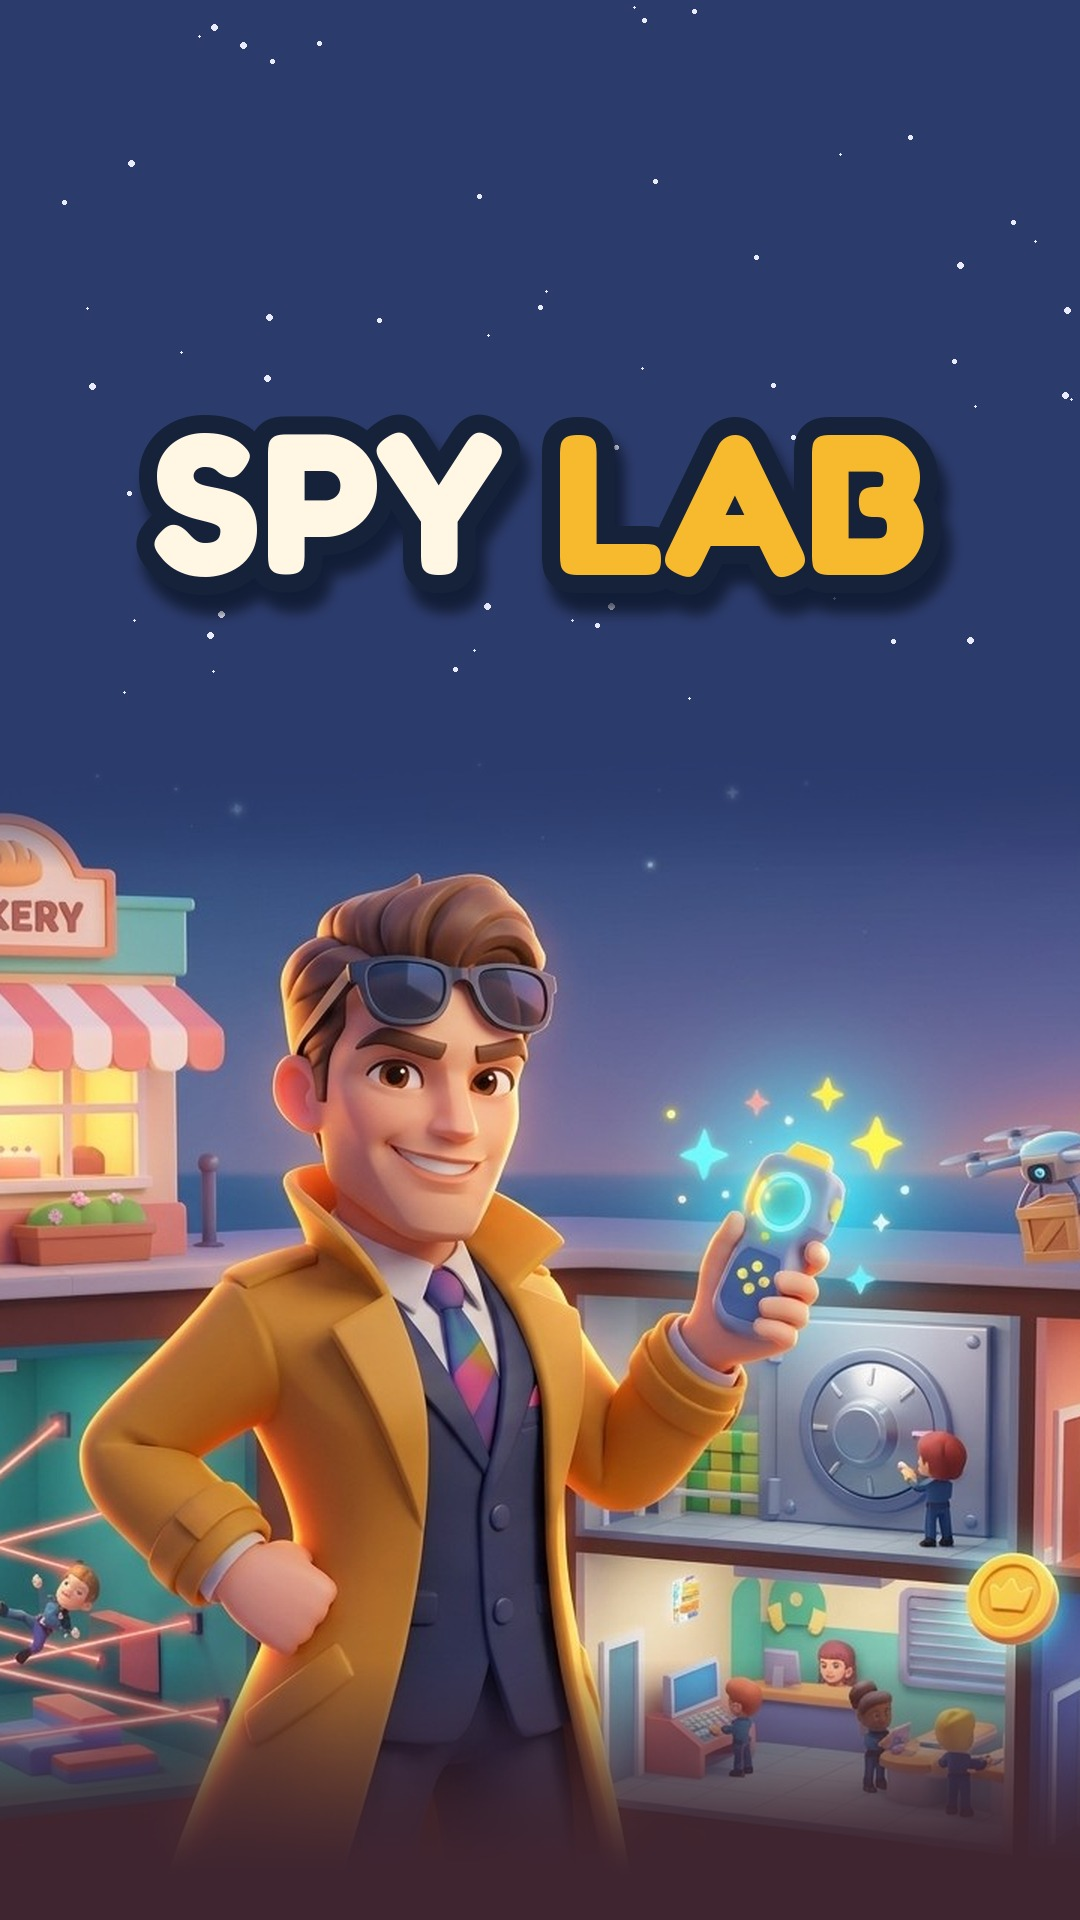
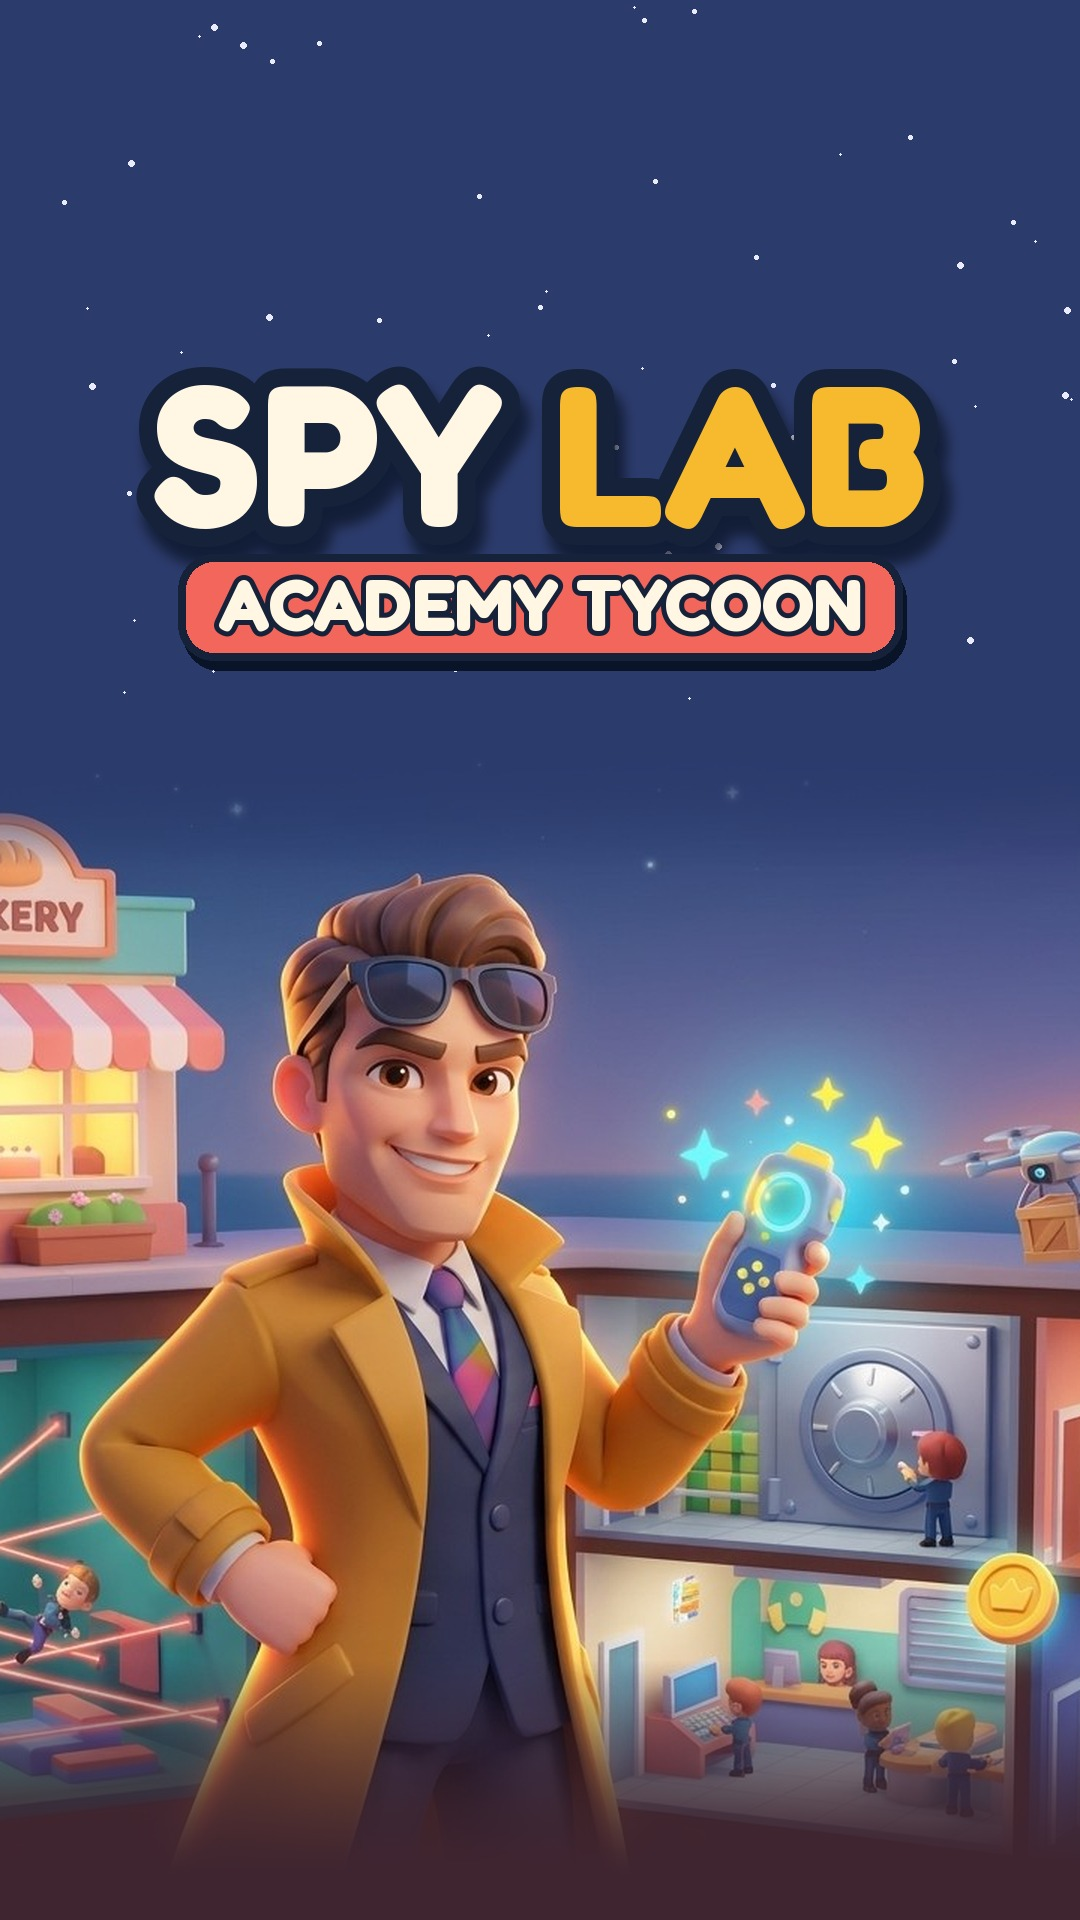
Title: Spy Lab Academy Tycoon; covers with full title; very short tutorial
- Game title, loader logo, check-build and covers renamed to Spy Lab Academy Tycoon.
- Tutorial cut to the first loop (cash, desk, safe, crate, sign-up, kits); after
  that the guide arrow only hints, incl. hiring the first graduate at the laptop.

Claude-Session: https://claude.ai/code/session_01EYL1t1n1wkZuBExBPweDN2

Changed region(s): [[0.1222, 0.1875, 0.8861, 0.375]]

diff --git a/tests/tutorial.spec.ts b/tests/tutorial.spec.ts
@@ -1,7 +1,7 @@
 import { test, expect } from '@playwright/test'
-import { boot, goTo, park, reload, solveSafe, spy, state } from './helpers'
+import { boot, goTo, reload, spy, state } from './helpers'
 
-test('tutorial route: cash -> desk -> safe -> crate -> sign-up -> kits -> fees -> 2nd safe -> graduate -> hire at the office laptop -> mission', async ({ page }) => {
+test('short tutorial: cash -> desk -> safe -> crate -> sign-up -> kits, then the guide hints (hire at the laptop)', async ({ page }) => {
   test.setTimeout(180_000)
   await boot(page)
   await expect(page.getByTestId('coach')).toBeVisible()
@@ -16,7 +16,13 @@ test('tutorial route: cash -> desk -> safe -> crate -> sign-up -> kits -> fees -
   await expect.poll(tut, { timeout: 10_000 }).toBe(4)
   await goTo(page, 'serve', 'vault')
   await expect.poll(tut, { timeout: 10_000 }).toBe(5)
-  // keep the safe supplied and the fees collected until the first cadet graduates
+  // last step: bring kits to the cadet -> the short tutorial is over, free play
+  await goTo(page, 'crate', 'vault')
+  await page.waitForTimeout(700)
+  await goTo(page, 'station', 'vault', 0)
+  await expect.poll(tut, { timeout: 10_000 }).toBe(6)
+  await expect(page.getByTestId('coach')).toHaveCount(0)
+  // the guide arrow still hints: once a cadet graduates it points at the office laptop
   for (let i = 0; i < 40; i++) {
     if ((await spy<any>(page, 'raw')).pending.length > 0) break
     await goTo(page, 'crate', 'vault')
@@ -28,35 +34,19 @@ test('tutorial route: cash -> desk -> safe -> crate -> sign-up -> kits -> fees -
     }
     await goTo(page, 'cash', 'vault')
     await page.waitForTimeout(300)
-    // buy the second safe once affordable, sign up the next cadet
-    if ((await state(page)).cash >= 27 && (await spy<any>(page, 'raw')).rooms.vault.stations < 2) {
-      await goTo(page, 'station', 'vault', 1)
-      await page.waitForTimeout(1500)
+    if ((await spy<any>(page, 'raw')).cadets.some((c: any) => c.phase === 'queue')) {
       await goTo(page, 'serve', 'vault')
       await page.waitForTimeout(1500)
     }
   }
-  // no pop-up any more: the graduate waits in the agency office
   await expect.poll(async () => (await spy<any>(page, 'raw')).pending.length, { timeout: 20_000 }).toBeGreaterThan(0)
-  await expect(page.getByTestId('panel-graduate')).toHaveCount(0)
-  await expect.poll(tut).toBeGreaterThanOrEqual(9) // 'hire' step
-  // the laptop on the office desk opens the menu: hire the first graduate
-  await goTo(page, 'laptop', 'vault')
-  await expect(page.getByTestId('panel-office')).toBeVisible()
-  await page.getByTestId('btn-hire-0').click()
-  await expect.poll(async () => (await state(page)).agents, { timeout: 10_000 }).toBe(1)
-  await page.getByTestId('panel-office').getByTestId('btn-close').click()
-  await expect.poll(tut).toBeGreaterThanOrEqual(10)
-  await page.evaluate(() => ((window as any).__spylab.raw().tutorial = 10))
-  await park(page)
-  await page.getByTestId('bar-map').click()
-  await page.getByTestId('mission-harbor_01').click()
-  await page.getByTestId('btn-start-mission').click()
-  await solveSafe(page)
-  await page.getByTestId('btn-double-free').click()
-  await page.getByTestId('btn-continue').click()
-  await expect.poll(tut).toBe(11)
+  const laptop = await spy<{ x: number; z: number }>(page, 'spot', 'laptop', 'vault')
+  // spend the cash so no purchase outranks the hint
+  await spy(page, 'addCurrency', 'cash', -1e9)
+  await expect.poll(async () => (await spy<any>(page, 'guide'))?.kind).toBe('hire')
+  const g = await spy<{ x: number; z: number }>(page, 'guide')
+  expect(Math.hypot(g.x - laptop.x, g.z - laptop.z)).toBeLessThan(1.5)
   await spy(page, 'flushSave')
   await reload(page)
-  expect(await tut()).toBe(11) // never restarts
+  expect(await tut()).toBe(6) // never restarts
 })

diff --git a/src/game/tutorial.ts b/src/game/tutorial.ts
@@ -1,10 +1,11 @@
 /**
- * FTUE: a fixed route (Kickoff lesson), one mechanic per step. Agent Marmalade says one line,
+ * FTUE: a very short fixed route (about 30 s), one mechanic per step; afterwards the guide arrow
+ * only hints (sim/guide.ts) and the player explores freely. Agent Marmalade says one line,
  * a 3D arrow + edge pointer shows the target. Steps are derived from state, so old saves
  * skip what they have already done; it never comes back after a reload.
  */
 import { ECONOMY } from '../config/economy'
-import { LAYOUT, OFFICE, cashSpotOf, crateOf, padOf, slotOf } from '../config/rooms'
+import { LAYOUT, crateOf, slotOf } from '../config/rooms'
 import type { GameState } from '../sim/state'
 import type { PadTarget } from '../sim/academy'
 
@@ -32,16 +33,6 @@ export const TUTORIAL: TutorialStep[] = [
     target: (s) => (s.carry.n > 0 ? slotOf('vault', 0) : crateOf('vault')),
     done: (s) => s.stats.delivered > 0,
   },
-  { id: 'fees', line: 'coach.fees', target: () => cashSpotOf('vault'), done: (s) => s.stats.collects > 1 },
-  { id: 'station2', line: 'coach.station2', target: () => slotOf('vault', 1), done: (s) => v(s).stations > 1, buy: { kind: 'station', room: 'vault' } },
-  { id: 'graduate', line: 'coach.graduate', target: () => null, done: (s) => s.graduatedTotal > 0 },
-  // graduates wait in the agency office (no pop-up): hire the first one for Mission 1
-  { id: 'hire', line: 'coach.hire', target: () => OFFICE.laptopPad, done: (s) => s.agents.length > 0 },
-  { id: 'mission', line: 'coach.mission', target: () => padOf('mission_control'), done: (s) => (s.missions.harbor_01?.wins ?? 0) > 0 },
-  { id: 'unlock', line: 'coach.unlock', target: () => padOf('laser'), done: (s) => s.rooms.laser.unlocked, buy: { kind: 'unlock', room: 'laser' } },
-  // stay in the new room: first trap, then its kit crate (same pattern as the Vault Workshop)
-  { id: 'laserStation', line: 'coach.laserStation', target: () => slotOf('laser', 0), done: (s) => s.rooms.laser.stations > 0, buy: { kind: 'station', room: 'laser' } },
-  { id: 'laserCrate', line: 'coach.laserCrate', target: () => crateOf('laser'), done: (s) => s.rooms.laser.crate, buy: { kind: 'crate', room: 'laser' } },
 ]
 
 export function tutorialActive(s: GameState): boolean {

diff --git a/index.html b/index.html
@@ -4,14 +4,14 @@
     <meta charset="UTF-8" />
     <meta name="viewport" content="width=device-width, initial-scale=1, maximum-scale=1, user-scalable=no, viewport-fit=cover" />
     <meta name="theme-color" content="#14213d" />
-    <title>Spy Lab</title>
+    <title>Spy Lab Academy Tycoon</title>
     <style>
       html, body { margin: 0; width: 100%; height: 100%; overflow: hidden; background: #14213d;
         touch-action: none; user-select: none; -webkit-user-select: none; -webkit-touch-callout: none; }
       #loader { position: fixed; inset: 0; z-index: 50; display: flex; flex-direction: column; align-items: center;
         justify-content: center; gap: min(4vw, 4vh); background: radial-gradient(circle at 50% 40%, #1f5f6b, #14213d 70%);
         transition: opacity .25s; }
-      #loader .logo { font: 700 min(13vw, 11vh)/1 'Courier New', Courier, monospace; color: #fff3e0; letter-spacing: .06em;
+      #loader .logo { max-width: 92vw; text-align: center; font: 700 min(7.2vw, 9vh)/1.1 'Courier New', Courier, monospace; color: #fff3e0; letter-spacing: .06em;
         text-transform: uppercase; text-shadow: 0 .06em 0 #f2665c; }
       #loader .stamp { font: 700 min(3.6vw, 3vh)/1 'Courier New', Courier, monospace; color: #f2b134; letter-spacing: .3em;
         border: 3px solid #f2b134; padding: .4em .8em; transform: rotate(-4deg); }
@@ -25,7 +25,7 @@
       <div id="ui"></div>
     </div>
     <div id="loader" aria-busy="true">
-      <div class="logo">Spy Lab</div>
+      <div class="logo">Spy Lab<br>Academy Tycoon</div>
       <div class="stamp" aria-hidden="true">&#9679;&nbsp;&#9679;&nbsp;&#9679;</div>
       <div class="bar"><div class="fill" id="loader-fill"></div></div>
     </div>

diff --git a/src/sim/guide.ts b/src/sim/guide.ts
@@ -56,6 +56,7 @@ export type Goal =
   | { kind: 'kits'; room: RoomId; at: Spot }
   | { kind: 'serve'; at: Spot }
   | { kind: 'mission'; at: Spot }
+  | { kind: 'hire'; at: Spot }
 
 export function guideGoal(s: GameState, choresOnly = false): Goal | null {
   // 1. something affordable: the next room first, else the cheapest pad
@@ -66,6 +67,8 @@ export function guideGoal(s: GameState, choresOnly = false): Goal | null {
   if (pads[0]) return { kind: 'pad', target: pads[0].p, at: padPos(pads[0].p, s) }
   const lv = choresOnly ? undefined : trainingRooms(s).filter((id) => s.rooms[id].stations > 0 && levelCost(s, id) <= s.cash).sort((a, b) => levelCost(s, a) - levelCost(s, b))[0]
   if (lv) return { kind: 'level', room: lv, at: upgradeSpotOf(lv) }
+  // the first graduate waits in the agency office: hire them (missions need an agent)
+  if (!choresOnly && !s.agents.length && s.pending.length) return { kind: 'hire', at: OFFICE.laptopPad }
   // a new mission is waiting: the fun part (and the big rewards) comes before chores
   if (!choresOnly && s.agents.length && MISSIONS.some((m) => missionLock(s, m) === 'ok' && !((s.missions[m.id]?.wins ?? 0) > 0))) return { kind: 'mission', at: padOf('mission_control') }
   // 2. a cash pile that pays for the next purchase (or the biggest one, if it covers at least a third)

diff --git a/tests/pace.spec.ts b/tests/pace.spec.ts
@@ -22,7 +22,7 @@ async function ui(page: Page) {
   })
 }
 
-const TUT_STEPS = 14
+const TUT_STEPS = 6
 
 async function clickIf(page: Page, id: string): Promise<boolean> {
   const l = page.getByTestId(id)

diff --git a/docs/SELF_CHECK.md b/docs/SELF_CHECK.md
@@ -69,7 +69,7 @@ Legende: ✅ geprüft (mit Beleg) · ➖ trifft nicht zu · ❓ hier nicht prüf
 | 3.3.4–3.3.5 | ✅ | `isAudioEnabled` beim Start, Bridge-Events, Sichtbarkeit (`tests/ads.spec.ts` „platform pause/mute"). |
 | 3.4.1–3.4.3 | ✅ | EN Standard/Fallback; Sprache nur aus `bridge.platform.language` oder Spielerwahl; 7 Sprachen vollständig (Prüfskript: alle statischen und dynamischen Schlüssel vorhanden). |
 | 3.4.4 | ✅ | Zahnrad → Globus, Sprachen in eigener Schreibweise. |
-| 3.5.1 | ❓ | Titel im Spiel „Spy Lab" – muss im Veröffentlichungsantrag identisch sein. |
+| 3.5.1 | ❓ | Titel im Spiel „Spy Lab Academy Tycoon" – muss im Veröffentlichungsantrag identisch sein. |
 
 ## 4 Inhalt
 
@@ -91,5 +91,5 @@ Legende: ✅ geprüft (mit Beleg) · ➖ trifft nicht zu · ❓ hier nicht prüf
 
 ## Offen / von Anton zu prüfen
 - 1.7.3 andere Browser und echte Geräte (QA-Tool).
-- 3.5.1 Titel im Antrag = „Spy Lab".
+- 3.5.1 Titel im Antrag = „Spy Lab Academy Tycoon".
 - 4.2.1 Rechte an Logo/Cover.
